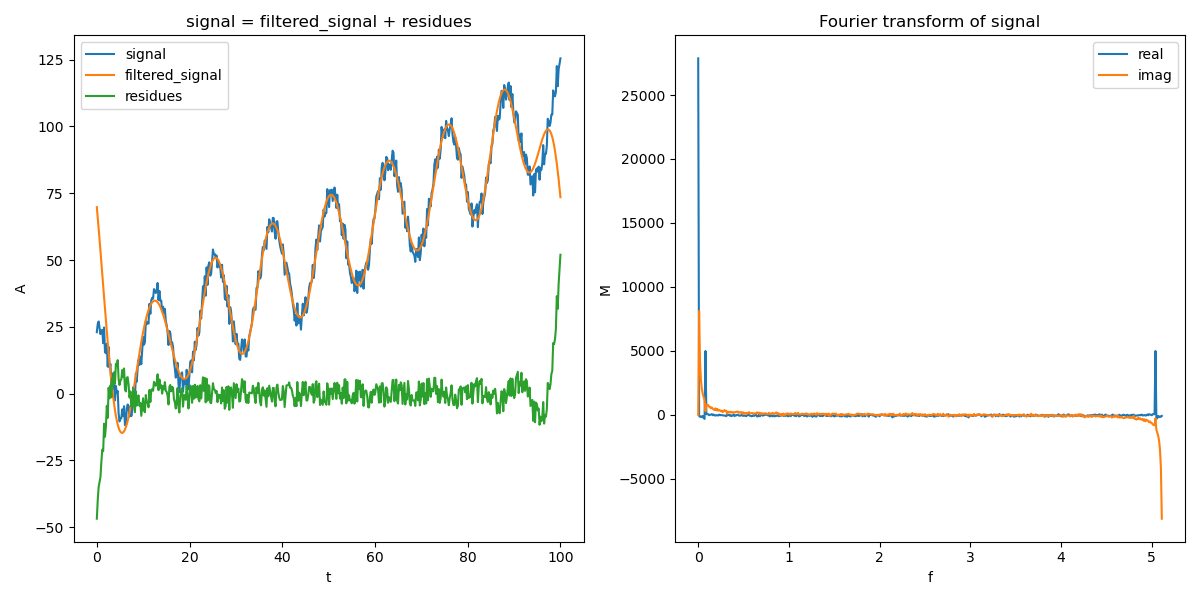
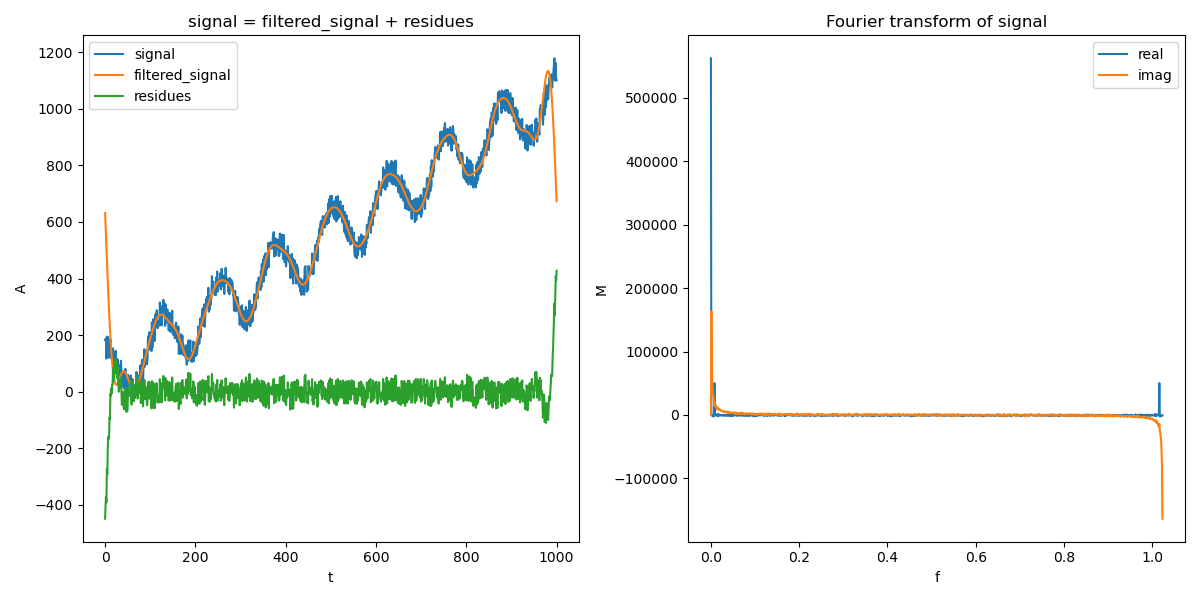
filter

diff --git a/filter/filter.cc b/filter/filter.cc
@@ -9,8 +9,8 @@ using namespace std::complex_literals;
 
 template <typename T>
 std::complex<T> f(T t) {
-    T noise = rand() % 10;
-    return t + 20 * cos(t / 2) + noise;
+    T noise = rand() % 100;
+    return t + 100 * cos(t / 20) + noise;
 }
 
 template <typename T>
@@ -37,20 +37,24 @@ std::vector<std::complex<T>> generateSignal(float t0, float t1, unsigned int sam
 int main() {
 
     // Original signal 
-    unsigned int samples = 512;
-    float t0 = 0.0f, t1 = 100;
+    unsigned int samples = 1024;
+    float t0 = 0.0f, t1 = 1000;
     
     std::vector<std::complex<double>> signal = generateSignal<double>(t0, t1, samples);
 
     // Apply filter
-    double lowFrequencyThreshold = 0.1;
-    double highFrequencyThreshold = 5.0;
+    double lowFrequencyThreshold = 0.02;
+    double highFrequencyThreshold = 1.0;
 
     std::vector<std::complex<double>> fourierTransform = ft::FFT(signal);
     std::vector<std::complex<double>> filteredFourierTransform(fourierTransform.size());
 
     float sampleRate = samples / (t1 - t0);
     std::vector<double> frequencies = ft::FFT_FREQ<double>(samples, sampleRate);
+
+    std::ofstream domainsFile("dom.txt");
+    domainsFile << t0 << " " << t1 << " " << frequencies[0] << " " << frequencies[frequencies.size() - 1];
+    domainsFile.close();
 
     std::ofstream fourierTransformRealFile("ftr.txt");
     std::ofstream fourierTransformImagFile("fti.txt");

diff --git a/filter/plot.py b/filter/plot.py
@@ -36,28 +36,11 @@ if __name__ == "__main__":
     fourier_transform_real: np.array = read_data("ftr.txt")
     fourier_transform_imag: np.array = read_data("fti.txt")
 
+    dom: np.array = read_data("dom.txt")
+
     # Plot
-    '''
-    fig, ax = plt.subplots()
-
-    t0: float = 0.0
-    t1: float = 100.0
-    t = np.linspace(t0, t1, len(signal))
-
-    ax.plot(t, signal, label='signal')
-    ax.plot(t, filtered_signal, label='filtered_signal')
-    ax.plot(t, residues, label='residues')
-
-    ax.set_title('signal = filtered_signal + residues')
-    ax.set_xlabel('t')
-    ax.set_ylabel('A')
-
-    ax.legend()
-    plt.show()
-    '''
-
-    t0: float = 0.0
-    t1: float = 100.0
+    t0: float = dom[0]
+    t1: float = dom[1]
     t = np.linspace(t0, t1, len(signal))
 
     fig, ax = plt.subplots(nrows=1, ncols=2, figsize=(12, 6)) 
@@ -74,8 +57,8 @@ if __name__ == "__main__":
     ax[0].legend()
 
     # Fourier transform
-    freq0: float = 0.0
-    freq1: float = 5.11
+    freq0: float = dom[2]
+    freq1: float = dom[3]
     f = np.linspace(freq0, freq1, len(signal))
 
     ax[1].plot(f, fourier_transform_real, label='real')
